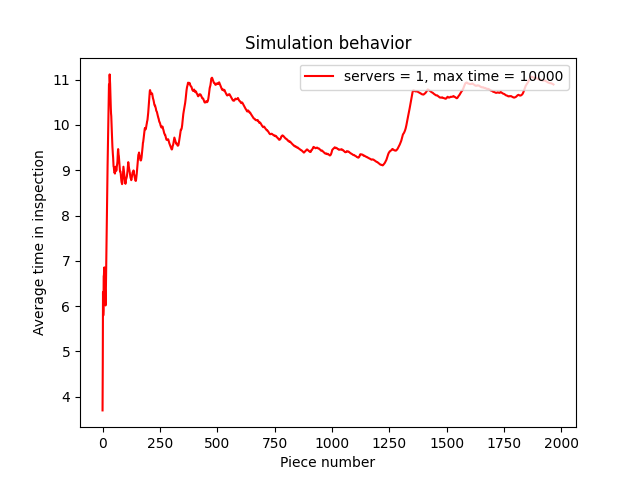
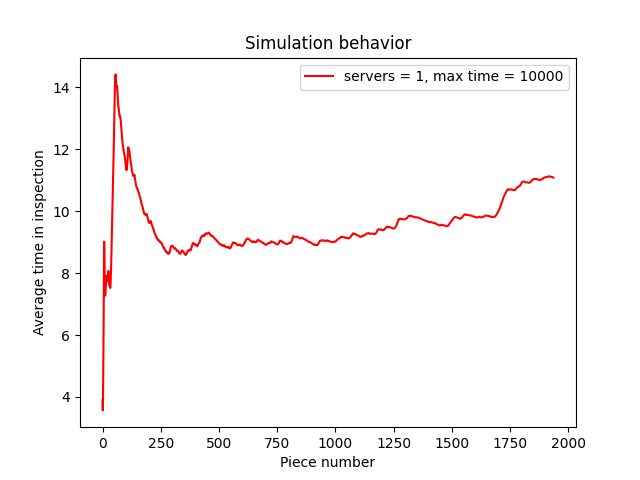
Revision rapida de simpy

diff --git a/multi_server.py b/multi_server.py
@@ -1,40 +1,41 @@
 from numpy.random import exponential, normal
+from numpy import average
 import matplotlib.pyplot as plt
 import simpy
 
 
 class ProductionLine:
-    def __init__(self, env, bcs, l, mean, sd):
-        self.env = env
-        self.bcs = bcs
-        self.l = l
-        self.mean = mean
-        self.sd = sd
-        self.inspection_times = []
+    def __init__(self, env, bcs):
+        self.env = env # Lo que hace que funcione simpy
+        self.bcs = bcs # Recurso para procesar las piezas
+        self.inspection_times = [] # Tiempo en el sistema para todas las piezas
 
     def piece(self, name, arriving_time, inspect_time):
-        # Simulate the piece arriving to the BCS
         yield self.env.timeout(arriving_time)
-        # Request one of its inspection spots
-        # print('%s arriving at %d' % (name, self.env.now))
         with self.bcs.request() as req:
             yield req
-            # Charge the battery
-            # print('%s starting to inspect at %s' % (name, self.env.now))
             yield self.env.timeout(inspect_time)
-            # print('%s leaving the bcs at %s' % (name, self.env.now))
             self.inspection_times.append(self.env.now - arriving_time)
 
-    def build_simulation(self, max_time):
+    def build_simulation_by_time(self, max_time, l, mean, sd):
         time = 0
-        count = 0
+        count = 1
         while True:
-            exp_time = exponential(self.l)
-            norm_time = normal(self.mean, self.sd)
+            exp_time = exponential(l)
+            norm_time = normal(mean, sd)
             if time + exp_time + norm_time > max_time:
                 break
-            self.env.process(self.piece('Piece %d' %
-                                        count, time + exp_time, norm_time))
+            self.env.process(self.piece(f'Piece {count}', time + exp_time, norm_time))
+            time += exp_time
+            count += 1
+
+    def build_simulation_by_pieces(self, max_pieces, l, mean, sd):
+        time = 0
+        count = 1
+        while count <= max_pieces:
+            exp_time = exponential(l)
+            norm_time = normal(mean, sd)
+            self.env.process(self.piece(f'Piece {count}', time + exp_time, norm_time))
             time += exp_time
             count += 1
 
@@ -42,20 +43,21 @@ class ProductionLine:
 def main():
     servers = 1
     max_time = 10000
+    max_pieces = 1200
     env = simpy.Environment()
     bcs = simpy.Resource(env, capacity=servers)
-    p_line = ProductionLine(env, bcs, 5, 4, 0.5)
-    p_line.build_simulation(max_time=max_time)
+    p_line = ProductionLine(env, bcs)
+    # p_line.build_simulation_by_time(max_time, 5, 4, 0.5)
+    p_line.build_simulation_by_pieces(max_pieces, 5, 4, 0.5)
     env.run()
 
     times = p_line.inspection_times
-    x = range(len(times))
-    y = [sum(times[:index + 1]) / (index + 1) for index in range(len(times))]
+    y = [average(times[:index + 1]) for index in range(len(times))]
 
     plt.title("Simulation behavior")
     plt.xlabel("Piece number")
     plt.ylabel("Average time in inspection")
-    plt.plot(x, y, color="red")
+    plt.plot(y, color="red")
     plt.legend(
         [f"servers = {servers}, max time = {max_time}"], loc="upper right")
     txt = 'graphs/' + str(servers) + '_servers.png' if servers > 1 else 'graphs/' + str(servers) + '_server.png'
